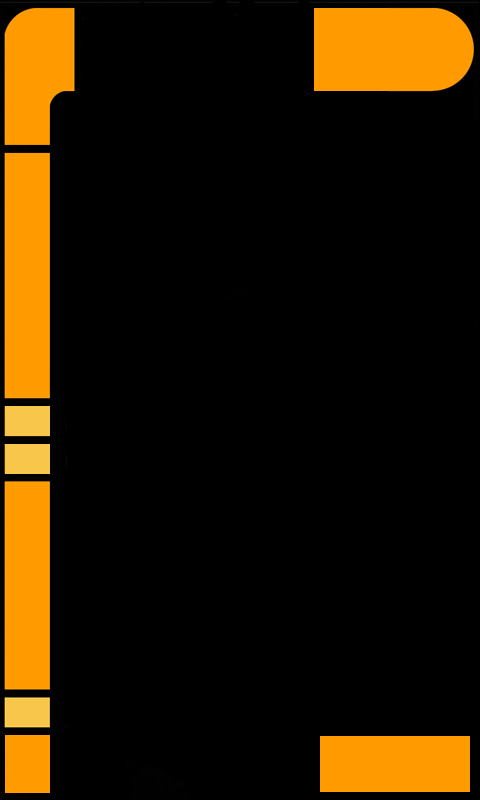
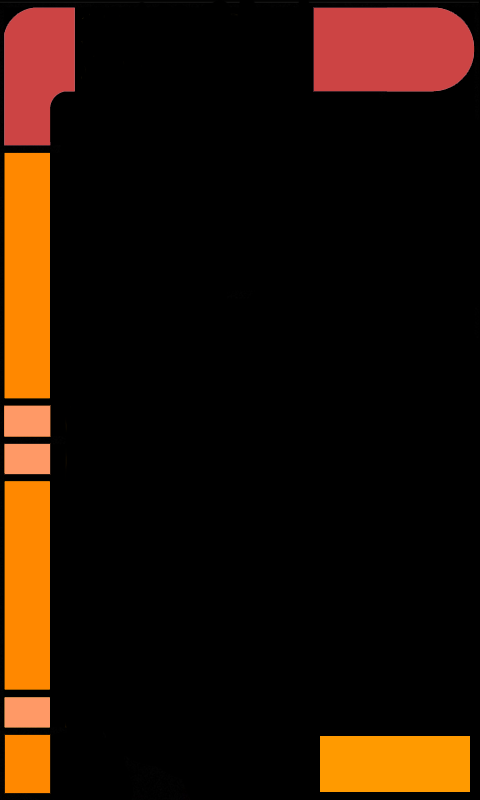
Tweak readme, change colours.

Changed region(s): [[0.0, 0.0, 0.1562, 0.5938], [0.625, 0.0, 1.0, 0.125], [0.0, 0.8438, 0.125, 0.9375]]

diff --git a/README.md b/README.md
@@ -1,21 +1,28 @@
-Hi,
+# Waveshare 7" Touch screen ESP32S3
 
+I am not the original author, but I've removed some of the AI "mistakes"
+(lots of repetition, long lambda's with more appropriate code that uses styles)
+and changed the colours a bit as well as giving visual feedback when a button
+is pressed.
 
-I am posting this for anyone to use, i spent a few days creating a wall panel to be used with Home Assistant.  I chose the Waveshare ESP32 7" Touchscreen https://www.waveshare.com/esp32-s3-touch-lcd-7.htm due to its price and size.  My goal was to create a esphome touch panel similar to what you see in Star Trek.  
+I chose the [Waveshare ESP32 7" Touchscreen](https://www.waveshare.com/esp32-s3-touch-lcd-7.htm)
+due to its price and size.  My goal was to create a esphome touch panel
+similar to what you see in Sci Fi series.  
 
-I have shared my YAML code, now I am no programmer, i needed Grok AI to help me with some of the code.  So take it as it is.  I have also included some automations that i use so the screens brightness can be controlled by home assistant.
+The automations for brightness/presence control I use a
+[Shelly BLU Motion](https://shellystore.co.uk/product/shelly-blu-motion/),
+however you can connect any precense/motion detector onto the board itself and
+expose that to home assistant, or as an exercise left for the reader move the
+automations onto the device itself.
 
-This is not supported out of the box and requires soldering a wire on the back of the device to gain that funtionality.  There is a great post here https://community.home-assistant.io/t/esp32-s3-7inch-capacitive-touch-display-adjust-brightness/771030 that gives you instructions on doing that.
+This is not supported out of the box and requires soldering a wire on the back
+of the device to gain that funtionality.  There is a great post here
+https://community.home-assistant.io/t/esp32-s3-7inch-capacitive-touch-display-adjust-brightness/771030
+that gives you instructions on doing that.
 
-I have also included the background image.  Feel free to modify that anyway you wish.
-
-I hope this helps.
-
-I am looking into adding a speaker directly to the unit.  I'll update once done.
-
-
-![IMG_2634](https://github.com/user-attachments/assets/d3923220-90f8-4204-a73b-9c8f3d54d1b9)
+I have also included a modified background image.  Feel free to modify that anyway you wish.
 
 Finally, thanks to Michael Okuda for the original design of the LCARS graphics.
 
- *"This is a fan-made project inspired by the LCARS interface design from Star Trek. It is not affiliated with or endorsed by Paramount Pictures or the Star Trek franchise. This project is for personal, non-commercial use only."*  
+ *"This is a fan-made project inspired by the LCARS interface design from Star Trek.
+ It is not affiliated with or endorsed by Paramount Pictures or the Star Trek franchise. This project is for personal, non-commercial use only."*  
